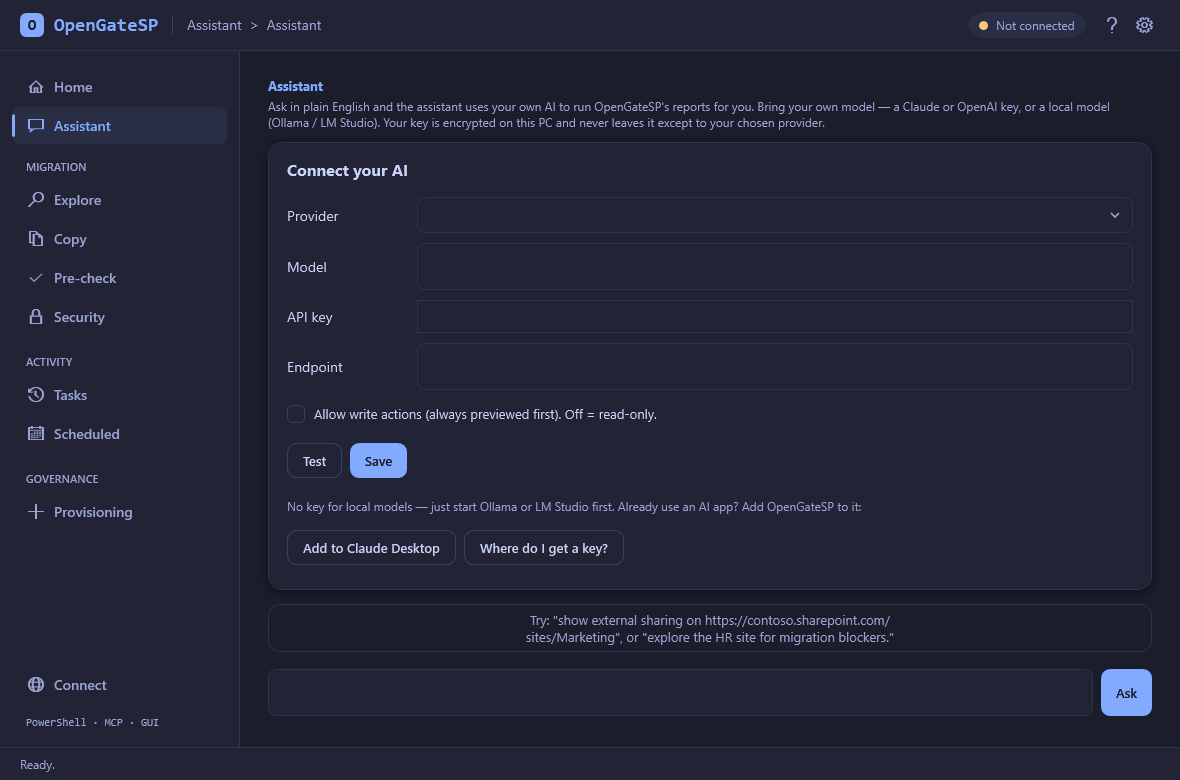
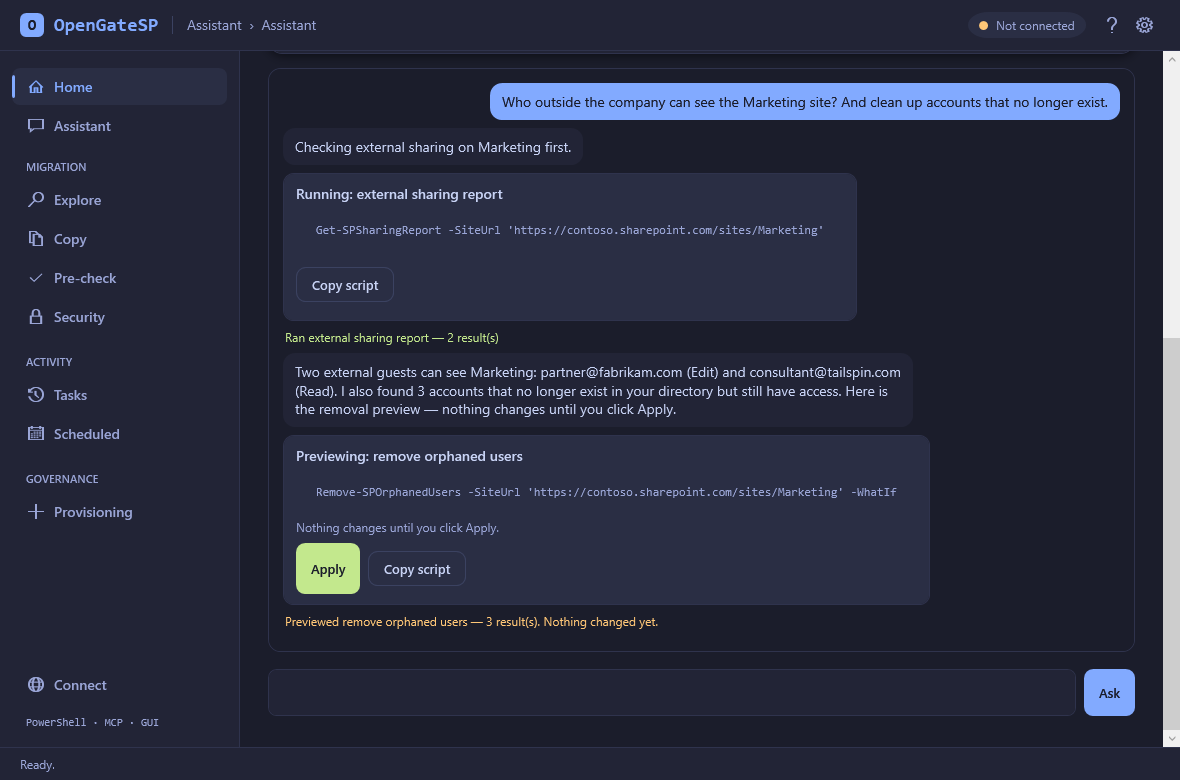
docs(readme): rewrite for humans; fresh staged screenshots; identity-copy roadmap
README restructured for its real audience (non-technical admins who
want a free ShareGate alternative): download steps near the top, plain-
language "what can it do" instead of the 30-row cmdlet table, a short
AI section built around the new Apply button, the comparison table with
an honest "Copy identities: planned" row, and a 3-bullet safety
section. Design-system talk cut to one line.

Screenshots re-captured from the real GUI (off-screen render, sandboxed
APPDATA): dark Home dashboard, the assistant mid-conversation with a
write preview waiting on its Apply button (sample contoso data), light
Home.

Roadmap: identity copy (Entra tenant-to-tenant users/groups/memberships
with a reviewable mapping CSV) — OpenGateSP's answer to ShareGate's
Copy identities, shipping as its own release.

diff --git a/README.md b/README.md
@@ -5,89 +5,108 @@
 [![License: MIT](https://img.shields.io/badge/License-MIT-yellow.svg)](LICENSE)
 ![PowerShell 7.4+](https://img.shields.io/badge/PowerShell-7.4%2B-5391FE?logo=powershell&logoColor=white)
 
-> **The free, open-source [ShareGate](https://sharegate.com) alternative** for SharePoint Online and Microsoft 365 — **migrate** file shares into SharePoint, **pre-check** sources before you move them, **audit** permissions and external sharing, **provision** sites, and **schedule** governance reports. A polished Windows app with a **built-in AI assistant that runs on your own model** (bring your own Claude / OpenAI key, or a local Ollama / LM Studio), a PowerShell engine, and an MCP server. MIT-licensed.
+> **The free, open-source alternative to [ShareGate](https://sharegate.com)** for SharePoint Online
+> and Microsoft 365. Migrate file shares, copy sites and Teams, see who has access to what, clean
+> up the mess, and schedule the reports — with a built-in AI assistant that runs on **your own**
+> model. No tiers, no trials, no sales call.
 
-![OpenGateSP — themed SharePoint admin GUI](docs/screenshot-dark.png)
+![OpenGateSP — the home dashboard](docs/screenshot-dark.png)
 
-## Install
+## Download & install
 
-**Easiest — the installer.** [Download **`OpenGateSP-Setup.exe`**](https://github.com/sameer-zahir/opengatesp/releases/latest) and double-click it. It installs per-user (no admin), drops a **Start Menu + desktop shortcut**, and registers an uninstaller — like any normal app. First launch lets you **pick your theme**, signs you in with a **one-click guided setup** (it registers a free Entra app for you — no copy-pasting commands), and gives you a **quick tour**. Then you're in.
+1. **[Download `OpenGateSP-Setup.exe`](https://github.com/sameer-zahir/opengatesp/releases/latest)** and double-click it.
+2. If Windows shows a SmartScreen warning, click **More info → Run anyway**. (The app isn't
+   code-signed yet — free open-source signing via [SignPath](https://signpath.org/) is in
+   progress, and `winget install` is on the way.)
+3. That's it. It installs just for you (no admin rights needed). First launch lets you pick a
+   theme, signs you in to Microsoft 365 with a **one-click guided setup** — no copy-pasting
+   commands — and gives you a quick tour.
 
-**Portable — no install.** Prefer to keep it in a folder? Download the `.zip`, unzip, and run **`OpenGateSP.exe`** (or `Start-OpenGateSP.cmd`).
+Prefer no installer? Grab the `.zip` from the same page, unzip, and run `OpenGateSP.exe`.
+You'll need **Windows** and **PowerShell 7.4+** — the installer points you to it if it's missing.
 
-> Needs **Windows + PowerShell 7.4+** (the installer points you to it if it's missing). The build is currently *unsigned*, so Windows SmartScreen shows a one-time **"More info → Run anyway"** — free open-source signing (SignPath) is in progress to remove that, and `winget install` is on the way.
+## What can it do?
 
-## OpenGateSP vs ShareGate
+**Migrate a file share into SharePoint.** Point it at a folder, pick a library, preview exactly
+what will happen, then run it — folder structure and timestamps preserved. A pre-check catches
+what SharePoint would reject (too-long paths, illegal names, oversized files) *before* you move
+anything.
 
-ShareGate is a polished, expensive tool for work that ultimately comes down to SharePoint API calls anyone can script. OpenGateSP does that work with open PowerShell you can read and run yourself, for free. It's an independent project, built from scratch on [PnP PowerShell](https://pnp.github.io/powershell/) — not affiliated with ShareGate.
+**Copy sites, Teams & Groups.** Copy a site's lists, libraries, and content to another site — in
+your tenant or a different one. Clone a Team with its channels and members, a Microsoft 365
+Group, or a Planner plan. Bring permissions along, remapping people with a simple CSV.
+
+**See who has access to what.** External sharing, full permission reports, a who-can-touch-what
+matrix, "Everyone" oversharing, ownerless Groups, and people who left the company but still have
+access. Each is one click, and everything exports.
+
+**Clean up.** Check in files people left checked out, trim bloated version history, fix broken
+permission inheritance, remove stale users, archive dead sites. Everything previews first.
+
+**Schedule the reports.** Governance reports as CSVs on a daily or weekly schedule, no sign-in
+needed once set up.
+
+Every button in the app is also a PowerShell command you can read and script — the guides in
+[docs/](docs/) cover each area, start with the [quickstart](docs/03-quickstart.md).
+
+## The AI assistant
+
+![OpenGateSP — the AI assistant, with a change waiting for your Apply click](docs/screenshot-ai.png)
+
+Ask in plain English — *"who outside the company can see the Marketing site?"* — and the built-in
+assistant runs the right report and explains what it found. It uses **your own AI**: paste a
+Claude or OpenAI key you already have, or run a free local model (Ollama / LM Studio) so nothing
+ever leaves your machine.
+
+It can look, but it can't touch. The assistant is read-only until you flip a switch — and even
+then, every change shows a **preview card first**, and nothing happens until *you* click
+**Apply** on it. Your key is encrypted on this PC; nothing is bundled, so it all stays free.
+Details: [docs/13-ai-assistant.md](docs/13-ai-assistant.md).
+
+## How it compares to ShareGate
+
+ShareGate is a polished, expensive tool for work that comes down to SharePoint API calls anyone
+can script. OpenGateSP does that work in the open, for free. (It's an independent project built
+on [PnP PowerShell](https://pnp.github.io/powershell/) — not affiliated with ShareGate.)
 
 | | ShareGate | OpenGateSP |
 |---|---|---|
 | **Price** | thousands / year | **Free (MIT)** |
-| File share / folder → SharePoint migration | ✅ | ✅ |
-| Pre-migration readiness check | ✅ | ✅ |
+| File share → SharePoint migration | ✅ | ✅ |
+| Pre-migration check & source assessment | ✅ | ✅ |
 | Permissions & external-sharing audit | ✅ | ✅ |
-| Site provisioning + CSV bulk metadata | ✅ | ✅ |
-| Scheduled governance reports | ✅ | ✅ |
-| Source **Explore** / pre-migration assessment | ✅ | ✅ |
-| Post-migration validation (compare) | ✅ | ✅ |
 | Tenant-to-tenant, Teams, Groups & Planner | ✅ | ✅ |
-| Remediation (check-in, trim versions, fix inheritance) | ✅ | ✅ |
-| **In-app AI assistant** — ask in English, bring your own model | — | **✅** |
-| Drive it from your own AI app over MCP | — | **✅** |
+| Post-migration validation | ✅ | ✅ |
+| Cleanup: check-in, versions, inheritance | ✅ | ✅ |
+| Scheduled governance reports | ✅ | ✅ |
+| Site provisioning + CSV bulk metadata | ✅ | ✅ |
+| **Built-in AI assistant — your own model** | — | **✅** |
+| Drive it from your own AI app (MCP) | — | **✅** |
 | Open source you can read, fork, and own | — | **✅** |
+| Copy identities (Entra tenant-to-tenant) | ✅ | planned |
 | Full per-version history fidelity | ✅ | best-effort |
-| ShareGate Protect-style automated governance policies | ✅ | partial |
+| Automated governance policies | ✅ | partial |
 
-OpenGateSP covers the bulk of **ShareGate Migrate** — source **Explore**, same- and cross-tenant copy, post-migration validation, governance reporting, and remediation — plus an **in-app AI assistant no closed tool can match**. The honest gaps are real: full per-version history fidelity (best-effort here; it needs the SharePoint Migration API), and most of **ShareGate Protect**'s *automated* governance (always-on policies, access-review campaigns). OpenGateSP does the reporting and the manual remediation today, not yet the policy engine.
+The gaps are real and we say so: full version-history fidelity needs the SharePoint Migration
+API (best-effort here today), ShareGate Protect's *automated* policy engine is only partially
+covered (OpenGateSP does the reporting and the cleanup, not yet always-on policies), and
+ShareGate's new **Copy identities** (creating users and groups in a destination tenant) is on the
+[roadmap](docs/roadmap.md) — OpenGateSP currently remaps identities during a copy rather than
+creating them.
 
-## Built to feel like a product
+## Is it safe?
 
-Four themes — **pick yours on first run** (the warm **Gruvbox**, a confident **Tokyo Night Moon**, or clean Fluent **light / dark** from [Squintless](https://github.com/sameer-zahir/squintless)), change it any time. The UI has real **depth** — layered surfaces, soft shadows, smooth motion, and right-aligned tabular numbers — a **dashboard Home** with live KPI tiles and recent activity that survives restarts, navigation grouped by the migration runbook (**Migration · Activity · Governance**), and a foolproof, **preview-first** Copy wizard a first-timer can't get lost in. A **first-run tour** and an always-on **?** help button keep non-technical users oriented (power users reach for the MCP). The visual system is documented in [docs/design-system.md](docs/design-system.md).
+- **It can only do what you can do.** You sign in as yourself, and the tool can never exceed your
+  own SharePoint permissions.
+- **Nothing changes without a preview.** Writes are dry-run by default everywhere — the app, the
+  AI (locked until you click Apply), PowerShell (`-WhatIf`), and the MCP server. Still, test
+  against a throwaway site before production.
+- **Nothing to leak.** Sign-in uses your Microsoft account with no client secret, and AI keys are
+  encrypted on-device. Report vulnerabilities privately via [SECURITY.md](SECURITY.md).
 
-![OpenGateSP — the in-app AI assistant (bring your own model)](docs/screenshot-ai.png)
+## For power users
 
-![OpenGateSP light theme](docs/screenshot-light.png)
-
-## What it does
-
-| Area | Function | What it does |
-|---|---|---|
-| **Assistant** | In-app AI (bring your own model) | Ask in plain English — your own model (Claude / OpenAI / Ollama / LM Studio) runs the reports for you, summarizes them, and shows the exact PowerShell it ran. Read-only by default; optional write actions are **preview-first** behind a toggle. Key encrypted on-device ([docs/13](docs/13-ai-assistant.md)). |
-| **Migration** | `Test-SPMigrationReadiness` | Pre-flight a local folder for SharePoint blockers (illegal names, over-long paths, oversized/empty files). Local, read-only. |
-| | `Start-SPFileMigration` | Local file share / folder → SharePoint library, preserving structure + timestamps. Dry-run by default. |
-| | `Copy-SPSite` | Copy a site's structure (lists, libraries, columns, views) and optionally its content to another site in the **same tenant**. Dry-run by default ([docs/07](docs/07-sharepoint-migration.md)). |
-| | `Copy-SPPermissions` | Copy role assignments to another site, remapping users/groups via a mapping CSV or domain swap. Dry-run by default. |
-| | `Copy-SPSite -CrossTenant` | Copy a site to a **different tenant** (files by download/upload, principals remapped). With `New-SPMigrationConnection` + `Copy-SPTermGroup`. |
-| | `Compare-SPSite` | Post-migration validation — diff destination vs source (lists, item/file counts). |
-| **Explore** | `Invoke-SPExplore` | Read-only **source assessment**: checked-out files, large files, external sharing, orphaned users, workflows — graded Error/Warning. |
-| | `Get-SPCheckedOutFiles` · `Get-SPLargeFiles` · `Get-SPVersionHistoryReport` · `Get-SPInactiveSites` · `Get-SPContentInsights` · `Get-SPWorkflowReport` | The individual discovery reports behind Explore. |
-| **Remediation** | `Invoke-SPCheckIn` · `Clear-SPVersionHistory` · `Restore-SPInheritance` · `Remove-SPOrphanedUsers` | Fix what Explore finds. Dry-run by default ([docs/11](docs/11-remediation.md)). |
-| **Collaboration** | `Copy-SPM365Group` | Clone a Microsoft 365 Group (description + owner/member roster) |
-| | `Copy-SPTeam` | Clone a Team (channels + membership) |
-| | `Copy-SPPlannerPlan` | Recreate a Planner plan (buckets + tasks) on a group |
-| **Reporting** | `Get-SPSiteInventory` | Tenant-wide sites + storage + last activity |
-| | `Get-SPPermissionReport` | Who has access; where inheritance is broken |
-| | `Get-SPSharingReport` | External users and sharing links |
-| | `Get-SPPermissionsMatrix` | Per-principal access matrix — who can touch what |
-| | `Get-SPOrphanedUsers` | Users with access no longer in the directory (stale access) |
-| | `Find-SPEveryoneClaims` | Where "Everyone" / "Everyone except external users" has access — the biggest oversharing risk, graded Error/Warning |
-| | `Get-SPOwnerlessGroups` | Microsoft 365 Groups (and their Teams/sites) with no owner |
-| | `Invoke-SPGovernanceReview` | Consolidated governance review — broad-audience grants + external sharing + stale access in one severity-graded list ([docs/09](docs/09-governance.md)) |
-| | `Set-SPSiteLifecycle` | Lock / archive (read-only) / unlock a site |
-| **Provisioning** | `New-SPSiteFromTemplate` | Create a site or library from a template |
-| | `Set-SPBulkMetadata` | CSV-driven bulk column updates |
-| **Scheduled** | `Run-GovernanceReport.ps1` | Unattended sharing/permission CSVs on a daily/weekly task ([docs/06](docs/06-scheduled-reports.md)). |
-
-Same engine, three ways to use it: the **GUI**, the **PowerShell** module, or the **MCP server**.
-
-## AI-driven, two ways
-
-**In the app.** The **Assistant** tab runs on *your own* model — paste a Claude or OpenAI key, or point it at a local **Ollama / LM Studio** (no key, nothing leaves your machine). Ask *"show external sharing on /sites/Marketing"* and it runs the report, summarizes it, and shows the exact PowerShell it used — which you can copy. Your key is encrypted on-device, and nothing is bundled, so it stays free.
-
-**From your own AI app.** The [MCP server](mcp-server/) lets Claude / Codex / Gemini drive the same tools conversationally — *"preview migrating C:\Shares\HR into the HR site."* Write tools preview by default. Setup: [mcp-server/README.md](mcp-server/README.md).
-
-## Prefer the CLI?
+The same engine is a PowerShell module and an MCP server:
 
 ```powershell
 Install-Module PnP.PowerShell -Scope CurrentUser
@@ -97,21 +116,20 @@ Connect-SPTool -Url https://contoso.sharepoint.com -ClientId <id> -Tenant contos
 Get-SPSharingReport -SiteUrl https://contoso.sharepoint.com/sites/Marketing
 ```
 
-Full guide: [docs/03-quickstart.md](docs/03-quickstart.md) · setup: [docs/01](docs/01-prerequisites.md), [docs/02](docs/02-entra-app-registration.md), headless/scheduled: [docs/05](docs/05-app-only-auth.md).
+Setup guides: [prerequisites](docs/01-prerequisites.md), [app registration](docs/02-entra-app-registration.md),
+[headless/scheduled auth](docs/05-app-only-auth.md). To drive it from Claude, Codex, or Cursor,
+hook up the [MCP server](mcp-server/README.md) — write tools are preview-gated there too.
 
-## Code signing
+![OpenGateSP light theme](docs/screenshot-light.png)
 
-OpenGateSP has applied to the [SignPath Foundation](https://signpath.org/) OSS program — once approved, release installers will be code-signed for free by [SignPath.io](https://about.signpath.io/), certificate by the SignPath Foundation. Download releases from the [releases page](https://github.com/sameer-zahir/opengatesp/releases); security policy in [SECURITY.md](SECURITY.md).
-
-## Safety
-
-- **Delegated auth** — the tool can never exceed your own SharePoint permissions. **App-only certificate** auth ([docs/05](docs/05-app-only-auth.md)) for headless / scheduled runs.
-- **Write operations are cautious** — migration, bulk metadata, and provisioning support `-WhatIf`/`-Confirm` and the MCP tools preview by default. **Test against a throwaway site before production.**
-- No client secret in the default setup, so there's nothing secret to leak.
+Four themes, picked on first run, changeable any time.
 
 ## Roadmap
 
-The migration engine (Phases 1–7: same-tenant copy, permissions/identity mapping, tenant-to-tenant, Teams/Groups/Planner, governance, Explore + validation, remediation + fidelity), the polished GUI + installer (0.10.0), and the **AI assistant + Protect-style governance detection** (0.11.0) have shipped. Next: governance **auto-remediation policies** and access-review campaigns, full per-version history fidelity (Migration API), PowerShell Gallery publish. See [docs/roadmap.md](docs/roadmap.md) and [docs/TESTING.md](docs/TESTING.md).
+Next up: governance auto-remediation policies and access-review campaigns, **identity copy**
+(Entra tenant-to-tenant users/groups — ShareGate's "Copy identities"), full version-history
+fidelity via the Migration API, and PowerShell Gallery publishing. The full list, including what
+already shipped: [docs/roadmap.md](docs/roadmap.md).
 
 ## License
 

diff --git a/docs/roadmap.md b/docs/roadmap.md
@@ -19,6 +19,12 @@ The path toward ShareGate-style site migration, grounded in what PnP PowerShell 
 - Maybe later: **Box** import.
 
 ## Also planned
+- **Identity copy (Entra tenant-to-tenant)** — create user accounts, security groups, Microsoft 365
+  groups, and their memberships in a destination tenant, with a reviewable mapping CSV before
+  anything is created. OpenGateSP's answer to ShareGate's *Copy identities* (their Entra ID
+  Migration, launched June 2026). Today OpenGateSP **remaps** identities during copies (mapping
+  CSV / domain swap) and clones group/Team rosters; it does not yet **create** identities — this
+  needs Graph write scopes and live-tenant validation, so it ships as its own release.
 - **Full per-version history fidelity** via the SharePoint Migration API (today's `-IncludeVersions` is best-effort — content/order preserved, per-version author/date are not).
 - **Governance automation** — the detection shipped in 0.11.0; next are the *policies*: ownerless-group and inactive-workspace **auto-remediation**, and recurring **access-review campaigns** (owner attestation with tracked decisions).
 - **More provisioning templates**; **PowerShell Gallery** (`Install-Module OpenGateSP`).
